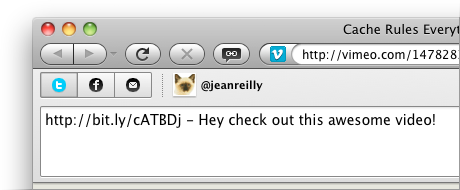
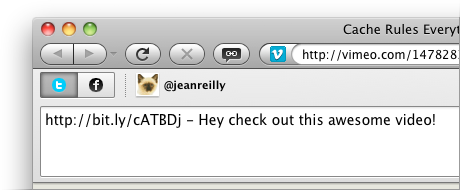
changed homepage to accomodate above the fold, changed images to look less like real buttons, changed selected state of tabs to be more obvious, placed placeholder text in textarea

Changed region(s): [[0.2435, 0.3684, 0.5783, 0.5263], [0.0609, 0.3684, 0.1826, 0.5263]]

diff --git a/web/frontpage/index.html b/web/frontpage/index.html
@@ -29,6 +29,14 @@
       </div>
     </div>
     <div class="row">
+      <div class="c1 description">
+        <h1>So, what&rsquo;s Linkdrop?</h1>
+        Linkdrop is your conversation starter. Linkdrop is a browser extension that allows you to share links in a fast and fun way. Share links from within the browser, from any webpage, using the same services you already know and love. Linkdrop is made by <a href="http://mozillamessaging.com/">Mozilla Messaging</a>.</div>
+      <div class="c2">
+        <img src="i/screenshot_01.png">
+      </div>
+    </div>
+    <div class="row">
       <div id="movie" class="c3">
         <div class="corner tl"></div>
         <div class="corner tr"></div>
@@ -36,14 +44,6 @@
       </div>
       <div id="tagline" class="c3">
         &ldquo;Drop links not bombs&rdquo; <span class="watch">Check out the video to get started</span>
-      </div>
-    </div>
-    <div class="row about">
-      <div class="c1 description">
-        <h1>So, what&rsquo;s Linkdrop?</h1>
-        Linkdrop is your conversation starter. Linkdrop is a browser extension that allows you to easily share, track and archive links in a fast and fun way. Share links from within the browser, from any webpage, using the same services you already know and love. Linkdrop is made by <a href="http://mozillamessaging.com/">Mozilla Messaging</a>.</div>
-      <div class="c2">
-        <img src="i/screenshot_01.png">
       </div>
     </div>
     <div class="row about">

diff --git a/web/share/index.html b/web/share/index.html
@@ -43,7 +43,7 @@
         </div>
       </div>
       <div class="message twitterCounter boxFlex">
-        <textarea class="message short" name="message"></textarea>
+        <textarea class="message short"  placeholder="What's on your mind?" name="message"></textarea>
         <div class="counter"></div>
       </div>
       <button class="share" type="submit">share</button>
@@ -56,12 +56,10 @@
         <input type="hidden" name="domain" value="facebook.com" />
         <input type="hidden" name="userid" value="" />
         <input type="hidden" name="username" value="" />
-
         <input type="hidden" name="picture" value="" />
         <input type="hidden" name="link" value="" />
         <input type="hidden" name="name" value="" />
         <input type="hidden" name="caption" value="" />
-
         <span class="avatar"><img class="avatar" src="i/face2.png"></span>
         <span class="username">Facebook User</span>
       </div>
@@ -74,7 +72,7 @@
         </div>
       </div>
       <div class="message boxFlex">
-        <textarea class="message nourl" name="message"></textarea>
+        <textarea class="message nourl" placeholder="What's on your mind?" name="message"></textarea>
       </div>
       <button class="share" type="submit">share</button>
     </form>

diff --git a/web/share/share.css b/web/share/share.css
@@ -224,15 +224,19 @@ ul.nav li.settings.ui-tabs-selected  {
   right: 0;
   top: 0;
   text-align: center;
-  border: 1px solid #888;
   -moz-border-radius: 2px;
+}
+
+ul.nav li.settings {
+  border: 1px solid #888;
 }
 
 /* === TAB SELECTED === */
 
 ul.nav li.ui-tabs-selected {
-  -moz-box-shadow:0 0 1px #666666 inset, 0 1px 0 #FFFFFF;
-  background-image:-moz-linear-gradient(center top , #EEEEEE 0%, #CCCCCC 100%);
+  -moz-box-shadow:0 0 5px #444 inset, 0 1px 0 #FFFFFF;
+  background-image:-moz-linear-gradient(center top , #bbb 0%, #aaa 100%);
+  border-color: #666;
 }
 
 ul.nav li.ui-tabs-selected a.twitter {
@@ -369,7 +373,8 @@ input[type="text"] {
 }
 
 input[type="text"].placeholder,
-input[type="password"].placeholder {
+input[type="password"].placeholder,
+textarea.placeholder {
   color: #888;
 }
 

diff --git a/web/frontpage/style.css b/web/frontpage/style.css
@@ -246,10 +246,13 @@ a#installClose:hover {
   position: fixed;
   bottom: 0;
   background-color: rgba(255,255,255,0.5);
-  border-top: 1px solid #e6e6e6;
   margin: 5px 0 0 0;
   font-size: 10px;
   color: #888;
+}
+
+#footer .c3 {
+  border-top: 1px solid #e6e6e6;
 }
 
 #installFrame {
